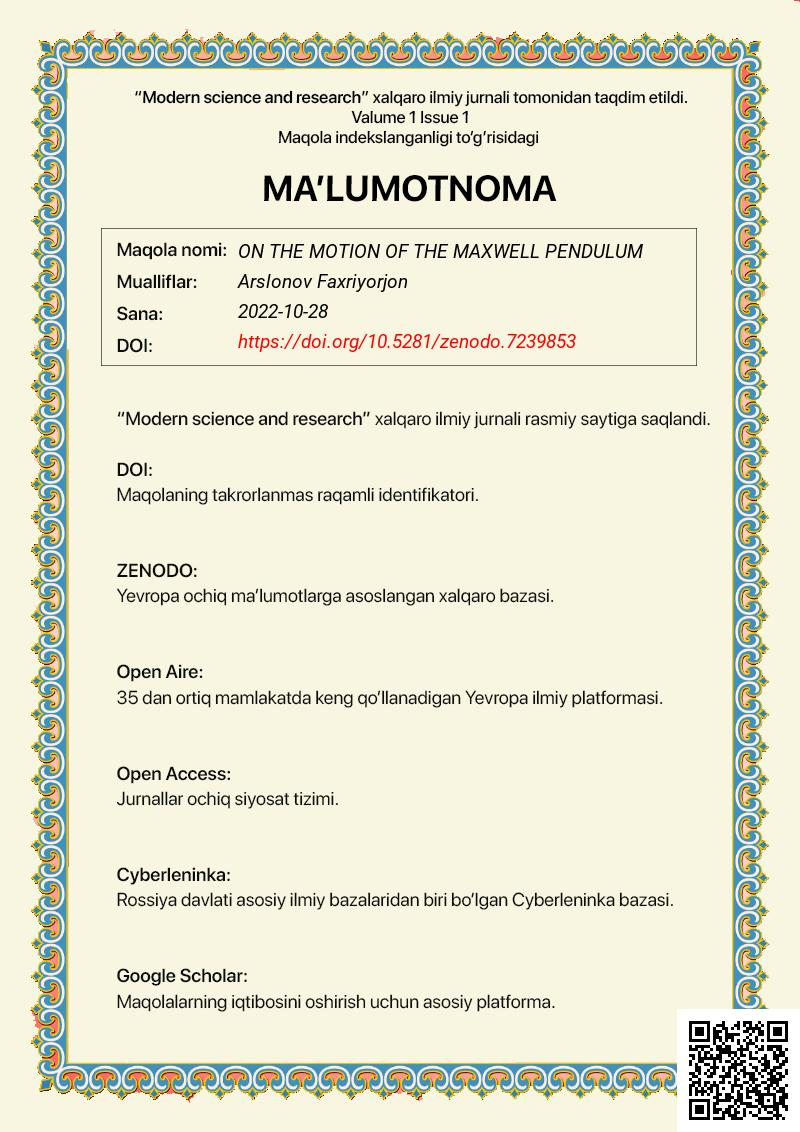
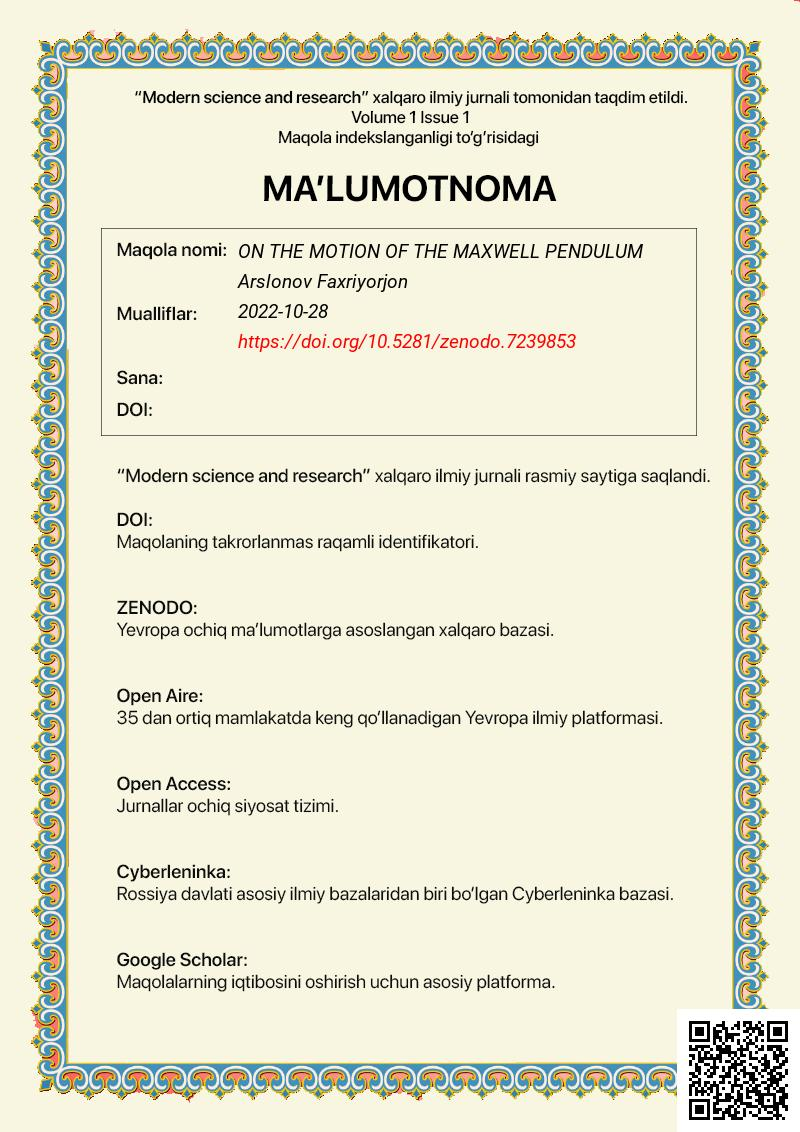
add ubuntu path

diff --git a/post/signals.py b/post/signals.py
@@ -13,7 +13,7 @@ today = date.today()
 def save_profile(sender, instance, **kwargs):
     if instance.certificate == ""  or instance.greeting_card == "":
         certificate = writeToCertificate(fullname = instance.author1,
-                        theme = instance.article_name_eng,
+                        theme = instance.article_name_en,
                         link = instance.doi,
                         qrlink = instance.openair)
         instance.greeting_card = writetoDiplom(fullname=instance.author1,
@@ -28,7 +28,7 @@ def save_profile(sender, instance, **kwargs):
         elif instance.author4:
             fullname = " " + instance.author4
          
-        handbook = writetoMalumotnoma(fullname=fullname, theme=instance.article_name_eng,
+        handbook = writetoMalumotnoma(fullname=fullname, theme=instance.article_name_en,
                                      tdate = today, qrlink = instance.doi, num = instance.id)
         instance.save()
     
@@ -56,14 +56,23 @@ def save_profile(sender, instance, **kwargs):
 post_save.connect(save_profile, sender=AclassModel)
 
 def writeToCertificate(fullname, link, qrlink, theme):
-    img = Image.open('C://Users//faxri//Desktop//article//documents//certificate.jpg')
+    try:
+        img = Image.open('C://Users//faxri//Desktop//article//documents//certificate.jpg')
+    except:
+        # /home/user/djangoapps/article
+        img = Image.open('/home//user//djangoapps//article//documents//certificate.jpg')
     image_width = img.width
     image_height = img.height  
     margin = 10
     draw = ImageDraw.Draw(img)
-    myFont = ImageFont.truetype('C://Users//faxri//Desktop//article//Roboto//Roboto_Bold.ttf', 38)
-    fullnameFont = ImageFont.truetype('C://Users//faxri//Desktop//article//Roboto//Roboto_Bold.ttf', 34)
-    linkFont = ImageFont.truetype('C://Users//faxri//Desktop//article//Roboto//Roboto_BoldItalic.ttf', 26)
+    try:
+        myFont = ImageFont.truetype('C://Users//faxri//Desktop//article//Roboto//Roboto_Bold.ttf', 38)
+        fullnameFont = ImageFont.truetype('C://Users//faxri//Desktop//article//Roboto//Roboto_Bold.ttf', 34)
+        linkFont = ImageFont.truetype('C://Users//faxri//Desktop//article//Roboto//Roboto_BoldItalic.ttf', 26)
+    except:
+        myFont = ImageFont.truetype('/home//user//djangoapps//article//Roboto//Roboto_Bold.ttf', 38)
+        fullnameFont = ImageFont.truetype('/home//user//djangoapps//article//Roboto//Roboto_Bold.ttf', 34)
+        linkFont = ImageFont.truetype('/home//user//djangoapps//article//Roboto//Roboto_BoldItalic.ttf', 26)
     fullname_y_position = 525
     link_y_position = 450
     char_limit = 35
@@ -137,19 +146,25 @@ def writeToCertificate(fullname, link, qrlink, theme):
 
     img.paste(img_qr, pos)
     im_1 = img.convert('RGB')
-    linkpath = f"\\certificate\\{fullname}.jpg"
+    linkpath = f"\\certificate\\{fullname}.pdf"
     docpath = str(settings.MEDIA_ROOT)+linkpath
     print(docpath)
-    img.save(docpath)
+    im_1.save(docpath)
     return linkpath
 
 
 def writetoDiplom(fullname, qrlink, tdate):
-    img = Image.open('C://Users//faxri//Desktop//article//documents//diplom.jpg')
-    draw = ImageDraw.Draw(img)
-    fullnameFont = ImageFont.truetype('C://Users//faxri//Desktop//article//Roboto//Roboto_Bold.ttf', 80)
-    numFont = ImageFont.truetype('C://Users//faxri//Desktop//article//Roboto//Roboto_Bold.ttf', 60)
-
+    try:
+        img = Image.open('C://Users//faxri//Desktop//article//documents//diplom.jpg')
+        draw = ImageDraw.Draw(img)
+        fullnameFont = ImageFont.truetype('C://Users//faxri//Desktop//article//Roboto//Roboto_Bold.ttf', 80)
+        numFont = ImageFont.truetype('C://Users//faxri//Desktop//article//Roboto//Roboto_Bold.ttf', 60)
+    except:
+        img = Image.open('/home//user//djangoapps//article//documents//diplom.jpg')
+        draw = ImageDraw.Draw(img)
+        fullnameFont = ImageFont.truetype('/home//user//djangoapps//article//Roboto//Roboto_Bold.ttf', 80)
+        numFont = ImageFont.truetype('/home//user//djangoapps//article//Roboto//Roboto_Bold.ttf', 60)
+    
     draw.text(
                 (
                     1650,1770
@@ -182,13 +197,20 @@ def writetoDiplom(fullname, qrlink, tdate):
 
 
 def writetoMalumotnoma(qrlink, num, tdate, fullname, theme):
+    try:
+        img = Image.open('/home//user//djangoapps//article//documents//guvohnoma.jpg')
+        draw = ImageDraw.Draw(img)
+        myFont = ImageFont.truetype('/home//user//djangoapps//article//Roboto//Roboto_Bold.ttf', 138)
+        fullnameFont = ImageFont.truetype('/home//user//djangoapps//article//Roboto//Roboto_Bold.ttf', 96)
+        numFont = ImageFont.truetype('/home//user//djangoapps//article//Roboto//Roboto_Bold.ttf', 92)
+    except:
+        img = Image.open('C://Users//faxri//Desktop//article//documents//guvohnoma.jpg')
+        draw = ImageDraw.Draw(img)
+        myFont = ImageFont.truetype('C://Users//faxri//Desktop//article//Roboto//Roboto_Bold.ttf', 138)
+        fullnameFont = ImageFont.truetype('C://Users//faxri//Desktop//article//Roboto//Roboto_Bold.ttf', 96)
+        numFont = ImageFont.truetype('C://Users//faxri//Desktop//article//Roboto//Roboto_Bold.ttf', 92)
     image_width = img.width
     image_height = img.height
-    img = Image.open('C://Users//faxri//Desktop//article//documents//guvohnoma.jpg')
-    draw = ImageDraw.Draw(img)
-    myFont = ImageFont.truetype('C://Users//faxri//Desktop//article//Roboto//Roboto_Bold.ttf', 138)
-    fullnameFont = ImageFont.truetype('C://Users//faxri//Desktop//article//Roboto//Roboto_Bold.ttf', 96)
-    numFont = ImageFont.truetype('C://Users//faxri//Desktop//article//Roboto//Roboto_Bold.ttf', 92)
     num_y_position = 890
     char_limit = 35
     text_width, _ = draw.textsize(fullname, font = myFont)
@@ -198,7 +220,7 @@ def writetoMalumotnoma(qrlink, num, tdate, fullname, theme):
                 (image_width - text_width) / 2+380,
                 num_y_position
             ),
-            num,
+            str(num),
             fill =(0, 0, 0),
             font = numFont)
 
@@ -206,7 +228,7 @@ def writetoMalumotnoma(qrlink, num, tdate, fullname, theme):
                 (
                     2600,2300
                 ),
-                tdate,
+                str(tdate),
                 fill =(0, 0, 0),
                 font = numFont)
 

diff --git a/malumotnoma.py b/malumotnoma.py
@@ -8,36 +8,76 @@ margin = 10
 draw = ImageDraw.Draw(img)
 myFont = ImageFont.truetype('C://Users//faxri//Desktop//article//Roboto//Roboto_Italic.ttf', 24)
 fullnameFont = ImageFont.truetype('C://Users//faxri//Desktop//article//Roboto//Roboto_Italic.ttf', 24)
-linkFont = ImageFont.truetype('C://Users//faxri//Desktop//article//Roboto//Roboto_Italic.ttf', 19)
+linkFont = ImageFont.truetype('C://Users//faxri//Desktop//article//Roboto//Roboto_Italic.ttf', 16)
+themeFont = ImageFont.truetype('C://Users//faxri//Desktop//article//Roboto//Roboto_Italic.ttf', 16)
 fullname_y_position = 525
 link_y_position = 450
 char_limit = 35
 tdate = "2022-10-28"
 doilink = "https://doi.org/10.5281/zenodo.7239853"
-fullname = "Arslonov Faxriyorjon"
-theme = "ON THE MOTION OF THE MAXWELL PENDULUM"
+fullname = "Arslonov Faxriyorjon, Azizov Laziz"
+fullname2 = "Axmadov Shaxmat, Raxmatov Ahmad"
+theme = "THE MAXWELL PENDULUM ON THE MOTION OF THE MAXWELL PENDULUM"
 text_width, _ = draw.textsize(fullname, font = myFont)
 qrlink = "https://note.nkmk.me/en/python-pillow-qrcode/"
 
-draw.text(
-            (
-                238,240
-            ),
-            theme,
-            fill =(0, 0, 0),
-            font = linkFont)
+tekstlen = 0
+sumtekst = ""
+ty = 240
+themelist = theme.split()
+for tekst in themelist:
+    tekstlen += len(tekst)
+    if tekstlen < 30:
+        sumtekst =sumtekst + " " + tekst
+        themelist.remove(tekst)
+        print(themelist, "themelist")
+        print(tekst)
+        print("1")
+        if len(themelist) == 0:
+            print("second if")
+            draw.text(
+                (
+                    238,ty
+                ),
+                sumtekst,
+                fill =(0, 0, 0),
+                font = themeFont)
+    else:
+        draw.text(
+                (
+                    238,ty
+                ),
+                sumtekst,
+                fill =(0, 0, 0),
+                font = themeFont)
+        
+        tekstlen = 0
+        sumtekst = ""
+        ty += 30
+
 
 draw.text(
             (
-                238,270
+                238,300
             ),
             fullname,
             fill =(0, 0, 0),
             font = linkFont)
 
+if fullname2:
+    draw.text(
+            (
+                238,330
+            ),
+            fullname2,
+            fill =(0, 0, 0),
+            font = linkFont)
+
+
+
 draw.text(
             (
-                238,300
+                238,368
             ),
             tdate,
             fill =(0, 0, 0),
@@ -46,7 +86,7 @@ draw.text(
 
 draw.text(
             (
-                238,330
+                238,398
             ),
             doilink,
             fill =(256, 0, 0),
